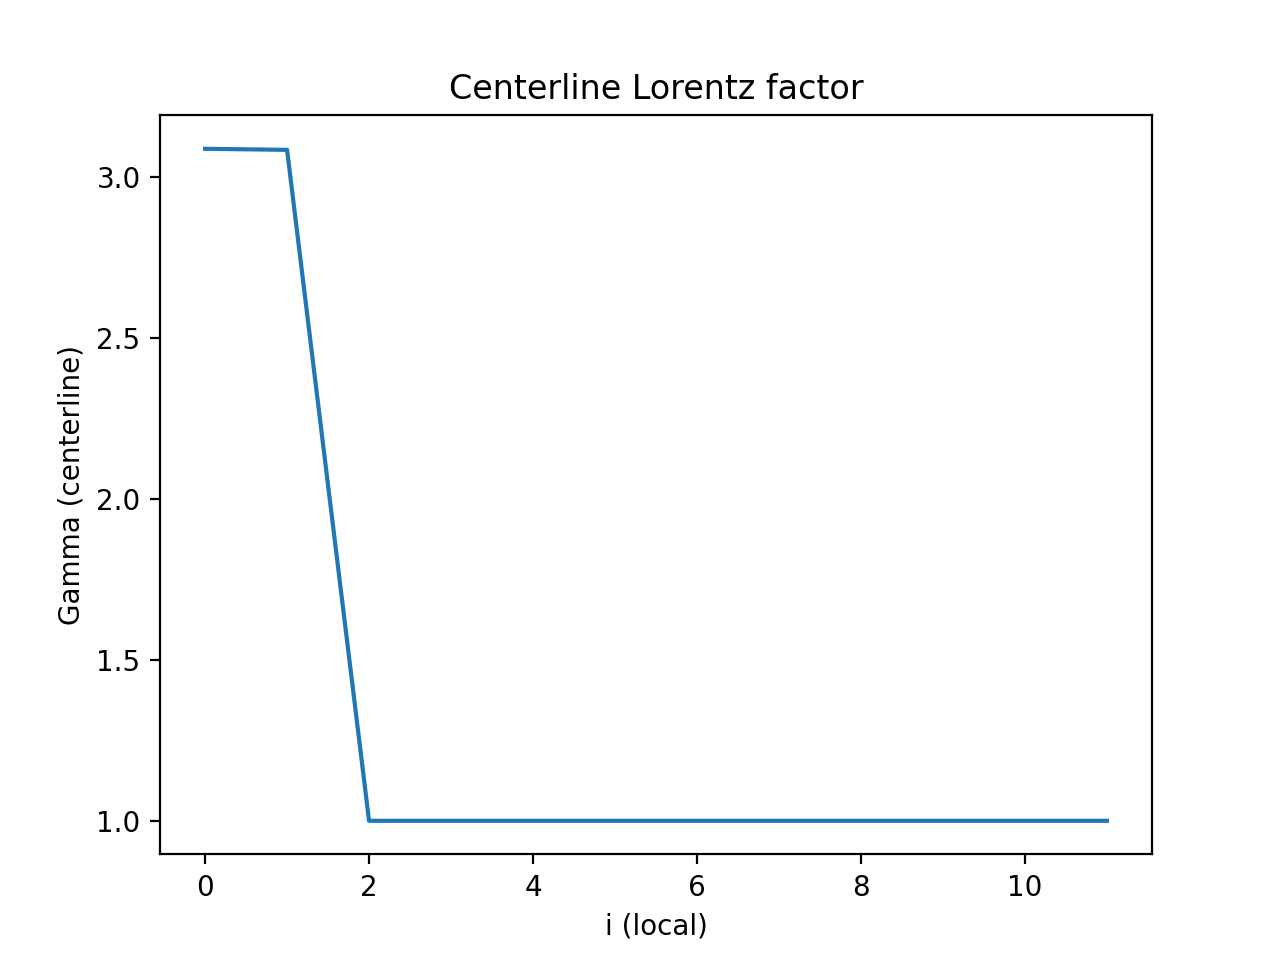
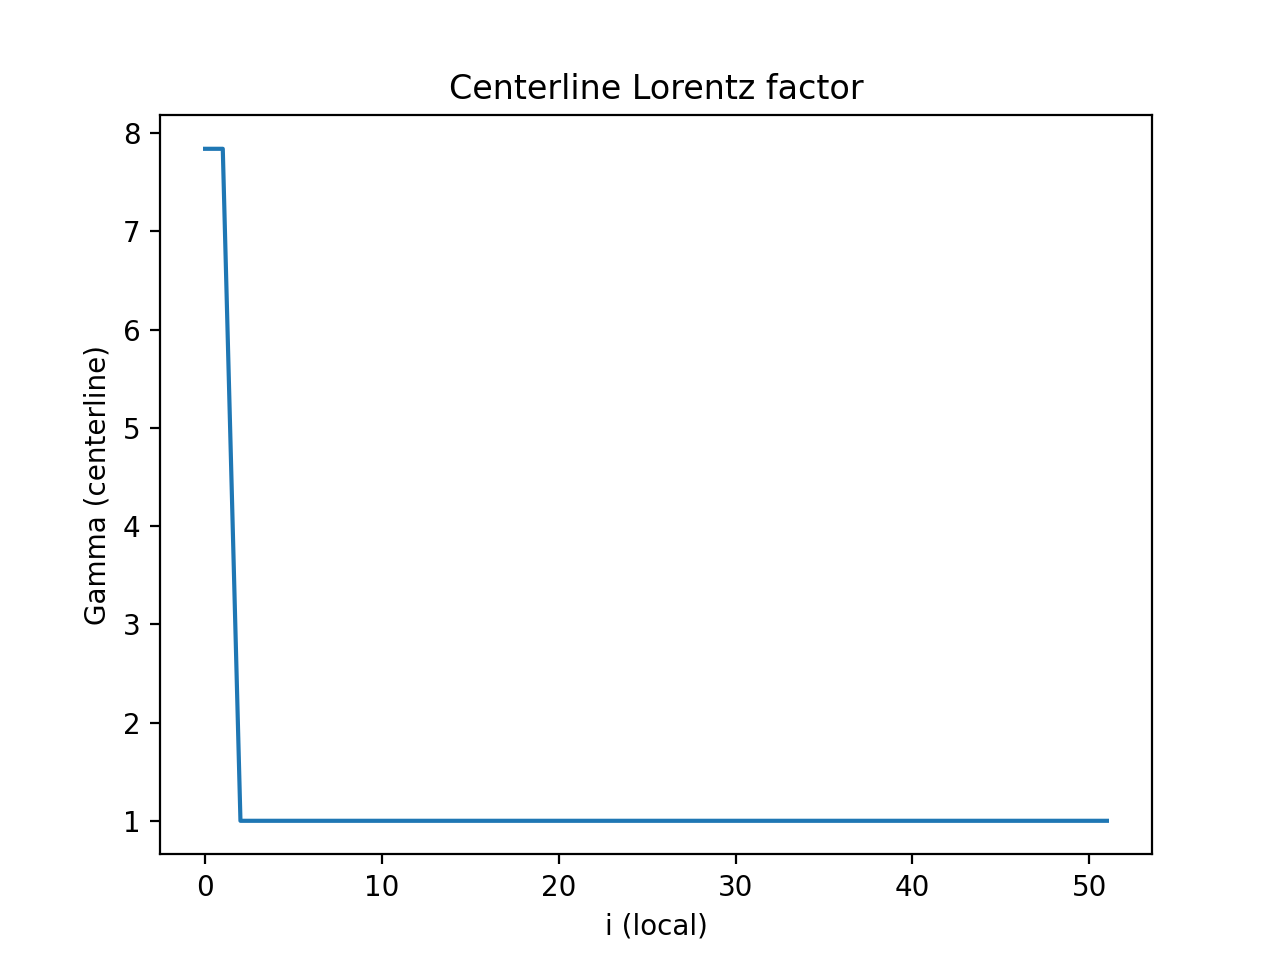
Refresh doc jet figures and update summary formatting

diff --git a/tools/make_doc_figures.py b/tools/make_doc_figures.py
@@ -165,6 +165,11 @@ def write_summary_table(run_dir, out_dir):
             shock_max = np.max(np.array([float(r[2]) for r in rows])[seg])
             heat_eff = np.mean(np.array([float(r[6]) for r in rows])[seg])
 
+    def _fmt(val):
+        if np.isfinite(val):
+            return f"{val:.3e}"
+        return "N/A"
+
     out_path = os.path.join(out_dir, "validation_summary.tex")
     with open(out_path, "w") as f:
         f.write("\\begin{table}[h]\n")
@@ -173,13 +178,13 @@ def write_summary_table(run_dir, out_dir):
         f.write("\\hline\n")
         f.write("Metric & Value \\\\ \n")
         f.write("\\hline\n")
-        f.write(f"Max Lorentz factor & {max_gamma:.3e} \\\\ \n")
-        f.write(f"Max signal speed & {amax:.3e} \\\\ \n")
-        f.write(f"Mean inlet flux (abs) & {inlet_abs:.3e} \\\\ \n")
-        f.write(f"divB max & {divb_max:.3e} \\\\ \n")
-        f.write(f"divB rms & {divb_rms:.3e} \\\\ \n")
-        f.write(f"SN shock radius max & {shock_max:.3e} \\\\ \n")
-        f.write(f"SN heating efficiency mean & {heat_eff:.3e} \\\\ \n")
+        f.write(f"Max Lorentz factor & {_fmt(max_gamma)} \\\\ \n")
+        f.write(f"Max signal speed & {_fmt(amax)} \\\\ \n")
+        f.write(f"Mean inlet flux (abs) & {_fmt(inlet_abs)} \\\\ \n")
+        f.write(f"divB max & {_fmt(divb_max)} \\\\ \n")
+        f.write(f"divB rms & {_fmt(divb_rms)} \\\\ \n")
+        f.write(f"SN shock radius max & {_fmt(shock_max)} \\\\ \n")
+        f.write(f"SN heating efficiency mean & {_fmt(heat_eff)} \\\\ \n")
         f.write("\\hline\n")
         f.write("\\end{tabular}\n")
         f.write("\\caption{Summary diagnostics from the latest run segment.}\n")

diff --git a/docs/astrofd.tex b/docs/astrofd.tex
@@ -469,12 +469,12 @@ regenerated with \texttt{tools/make\_doc\_figures.py}.
 
 \section{Discussion}\label{sec:discussion}
 AstroFD emphasizes transparent, modular physics and numerical methods to
-support controlled studies. The current implementation uses fixed
-spacetime metrics and parameterized SN-lite heating; these choices allow
-rapid iteration and reproducibility but do not replace full radiation
-transport or dynamic spacetime evolution. Future work will incorporate
-more detailed EOS options, expanded benchmark suites, and more complete
-transport models.
+support controlled studies. The current scope focuses on fixed
+background metrics and parameterized SN-lite heating to enable rapid and
+reproducible experiments; higher-fidelity transport and dynamic
+spacetime evolution are planned extensions rather than excluded design
+goals. Future work will incorporate more detailed EOS options, expanded
+benchmark suites, and more complete transport models.
 
 \section{Conclusion}
 We presented AstroFD, a modular relativistic solver designed for

diff --git a/docs/figures/validation_summary.tex b/docs/figures/validation_summary.tex
@@ -5,12 +5,12 @@
 Metric & Value \\ 
 \hline
 Max Lorentz factor & 1.000e+00 \\ 
-Max signal speed & 1.000e+00 \\ 
-Mean inlet flux (abs) & 4.789e-05 \\ 
-divB max & 1.919e-01 \\ 
-divB rms & 1.521e-02 \\ 
-SN shock radius max & 2.400e-01 \\ 
-SN heating efficiency mean & 3.000e-01 \\ 
+Max signal speed & 9.976e-01 \\ 
+Mean inlet flux (abs) & 0.000e+00 \\ 
+divB max & N/A \\ 
+divB rms & N/A \\ 
+SN shock radius max & N/A \\ 
+SN heating efficiency mean & N/A \\ 
 \hline
 \end{tabular}
 \caption{Summary diagnostics from the latest run segment.}
